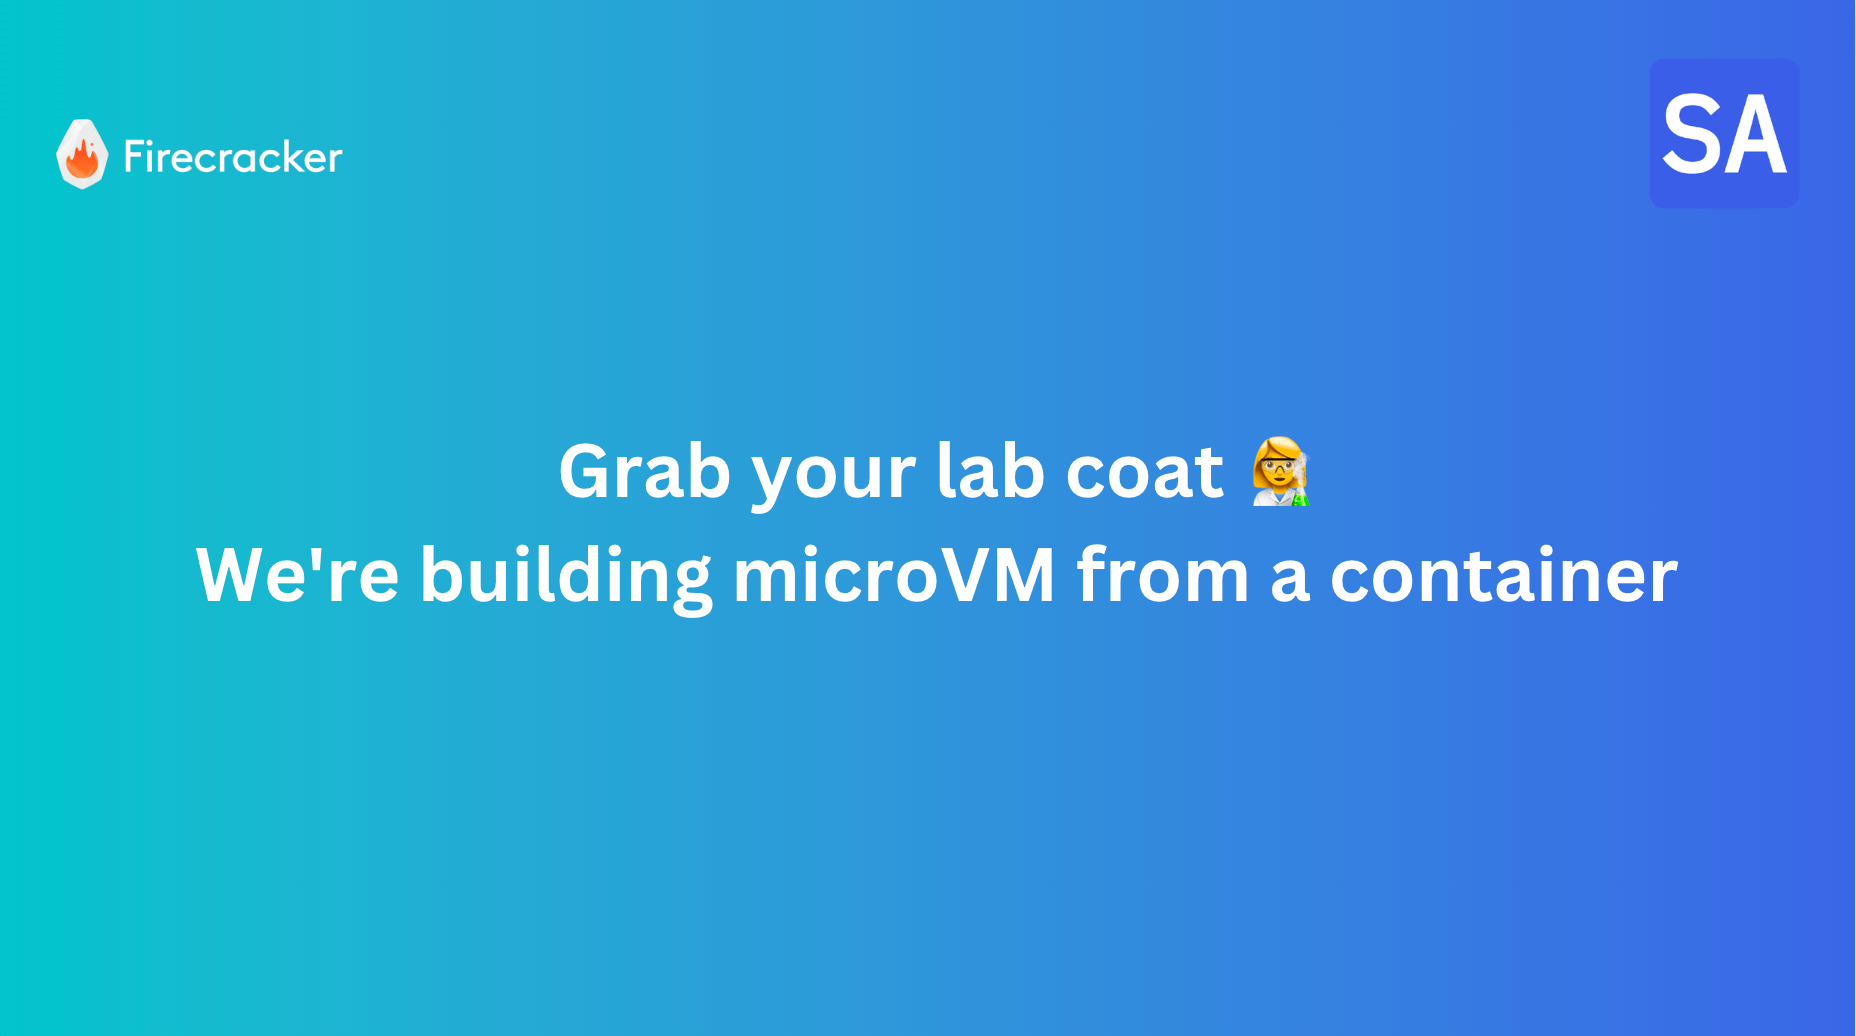
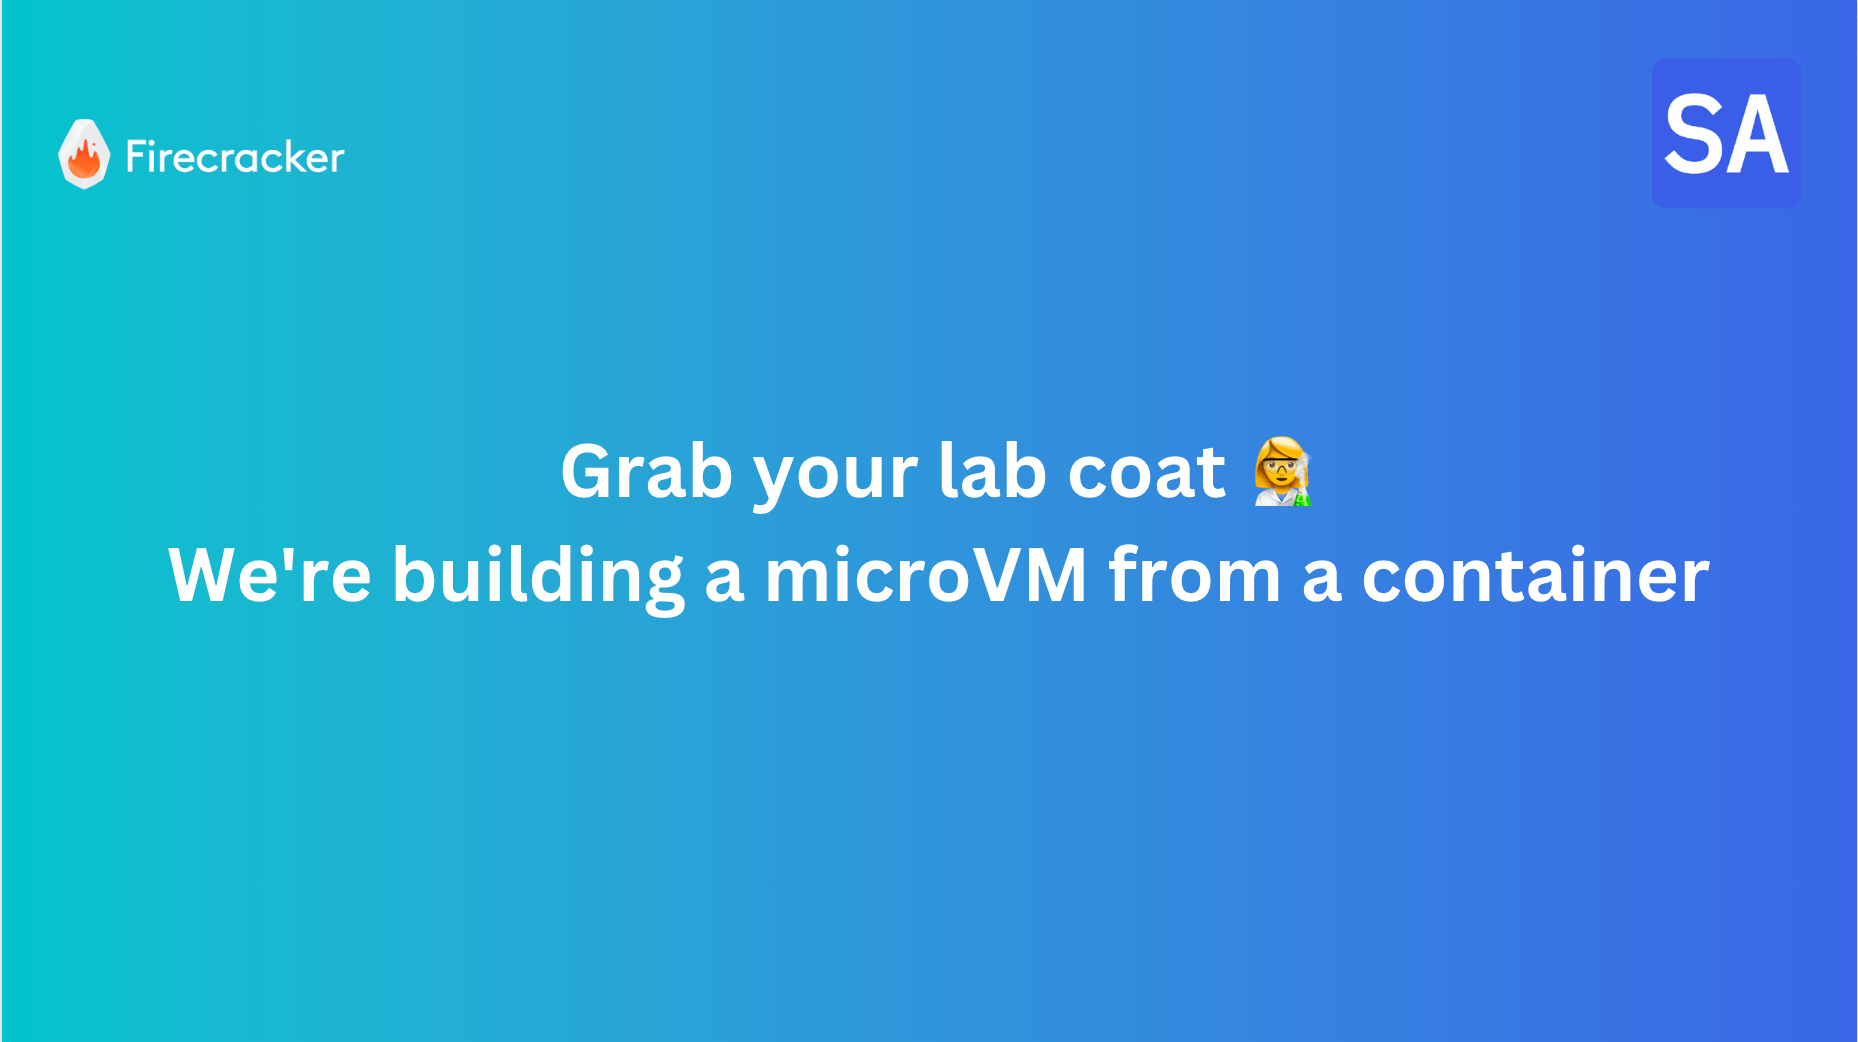
Fix title of image

Changed region(s): [[0.0938, 0.5251, 0.9375, 0.6178], [0.3125, 0.4015, 0.7188, 0.4942], [0.0312, 0.1236, 0.1875, 0.1853]]

diff --git a/posts/2023-09-05-firecracker-container-lab.md b/posts/2023-09-05-firecracker-container-lab.md
@@ -1,5 +1,5 @@
 ---
-title: Grab your lab coat - we're building microVM from a container
+title: Grab your lab coat - we're building a microVM from a container
 description: "No more broken tutorials, build a microVM from a container, boot it, access the Internet"
 tags:
 - firecracker
